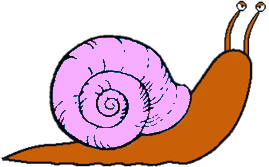
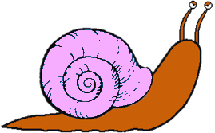
animations

diff --git a/core/src/com/missionbit/snailassalt/SnailAssalt.java b/core/src/com/missionbit/snailassalt/SnailAssalt.java
@@ -5,8 +5,10 @@ import com.badlogic.gdx.Gdx;
 import com.badlogic.gdx.graphics.GL20;
 import com.badlogic.gdx.graphics.OrthographicCamera;
 import com.badlogic.gdx.graphics.Texture;
+import com.badlogic.gdx.graphics.g2d.Animation;
 import com.badlogic.gdx.graphics.g2d.BitmapFont;
 import com.badlogic.gdx.graphics.g2d.SpriteBatch;
+import com.badlogic.gdx.graphics.g2d.TextureRegion;
 import com.badlogic.gdx.math.Vector3;
 
 public class SnailAssalt extends ApplicationAdapter {
@@ -27,19 +29,37 @@ public class SnailAssalt extends ApplicationAdapter {
     private Player jimmy;
     //enemies start
     private Enemy standardSnail;
+    private Texture frame1;
+    private Texture frame2;
+    private Animation snail;
+    float time = 0;
     private Enemy acidSnail;
+    private Texture frame3;
+    private Texture frame4;
+    private Animation acidsnail;
     private Enemy flyingSnail;
+    private Texture frame5;
+    private Texture frame6;
+    private Animation flyingsnail;
     private Enemy healerSnail;
+    private Texture frame7;
+    private Texture frame8;
+    private Animation healsnail;
     private Enemy motherSnail;
     private Enemy people;
     private Enemy boss;
     //enemies end
+    private Texture house;
+    private Texture houseBroken;
+    private Texture houseGameOver;
+    private int houseHp;
     // game states -- 1 int to hold current game state, 5 ints to hold MAIN game states
     private int gameState, stateMainMenu, stateInGame, stateGameOver, stateShop, stateLevelSelect;
     //levels -- 1 String to hold current level, [int] Strings to hold levels
     //private ArrayList<Levels> levels;
     private int currentLevel;
     //private String currentLevel, level1, level2;
+    private Texture balloon;
 	@Override
     public void render () {
         Gdx.gl.glClearColor(1, 1, 1, 1);
@@ -54,6 +74,7 @@ public class SnailAssalt extends ApplicationAdapter {
         camera = new OrthographicCamera(width, height);
         font = new BitmapFont(Gdx.files.internal("font.fnt"), Gdx.files.internal("font.png"), false);
         background = new Texture("sidewaysmenu.png");
+        balloon = new Texture("balloon icon.png");
         //game states start
         stateMainMenu = 0;
         stateInGame = 1;
@@ -78,7 +99,31 @@ public class SnailAssalt extends ApplicationAdapter {
         jimmy = new Player();
         //enemies start
         standardSnail = new Enemy();
-        //pull vivian's enemies later
+        frame1 = new Texture("snail.png");
+        frame2 = new Texture("standardsnail2.png");
+        snail = new Animation(0.7f, new TextureRegion(frame1), new TextureRegion(frame2));
+        snail.setPlayMode(Animation.PlayMode.LOOP);
+        acidSnail = new Enemy();
+        frame3= new Texture("acid snail.png");
+        frame4= new Texture("acid snail2.png");
+        acidsnail= new Animation(0.4f,new TextureRegion(frame3), new TextureRegion(frame4));
+        acidsnail.setPlayMode(Animation.PlayMode.LOOP);
+        flyingSnail = new Enemy();
+        frame5= new Texture("flying snail.png");
+        frame6= new Texture("flying snail2.png");
+        flyingsnail=new Animation(0.25f, new TextureRegion(frame5), new TextureRegion(frame6));
+        flyingsnail.setPlayMode(Animation.PlayMode.LOOP);
+        healerSnail = new Enemy();
+        frame7= new Texture("healsnail.png");
+        frame8=new Texture("healsnail2.png");
+        healsnail=new Animation(0.6f,new TextureRegion(frame7),new TextureRegion(frame8));
+        healsnail.setPlayMode(Animation.PlayMode.LOOP);
+        motherSnail = new Enemy();
+        people = new Enemy();
+        boss = new Enemy();
+        house = new Texture("house.png");
+        houseBroken=new Texture("housebroken.png");
+        houseGameOver=new Texture("housegameover.png");
         //enemies end
         resetGame();
     }
@@ -95,7 +140,29 @@ public class SnailAssalt extends ApplicationAdapter {
         loseButton.buttonPosition.set(loseButton.getXPos(), loseButton.getYPos());
         //buttons end
         //enemies start
-        //pull vivian's enemy stats later
+        standardSnail.standardSnailBound.x = 400;
+        standardSnail.standardSnailBound.y = 400;
+        standardSnail.hp = 10;
+        acidSnail.acidSnailBound.x = 600;
+        acidSnail.acidSnailBound.y = 600;
+        acidSnail.hp = 40;
+        flyingSnail.flyingSnailBound.x = 200;
+        flyingSnail.flyingSnailBound.y = 400;
+        flyingSnail.hp = 10;
+        healerSnail.healerSnailBound.x = 400;
+        healerSnail.healerSnailBound.y = 600;
+        healerSnail.hp = 20;
+        motherSnail.motherSnailBound.x = 0;
+        motherSnail.motherSnailBound.y = 0;
+        motherSnail.hp = 30;
+        people.peopleBound.x = 0;
+        people.peopleBound.y = 0;
+        people.hp = 40;
+        boss.bossBound.x = 0;
+        boss.bossBound.y = 0;
+        boss.hp = 100;
+        houseHp = 50;
+
         //enemies end
     }
     public Vector3 getTapPosition() {
@@ -103,6 +170,8 @@ public class SnailAssalt extends ApplicationAdapter {
         return camera.unproject(temp);
     }
     public void updateGame(){
+        float deltaTime = Gdx.graphics.getDeltaTime();
+        time += deltaTime;
         if (gameState == stateMainMenu) {
             if (Gdx.input.justTouched() && startButtonMenu.buttonBound.contains(getTapPosition().x, getTapPosition().y))
                 gameState = stateLevelSelect;
@@ -124,6 +193,9 @@ public class SnailAssalt extends ApplicationAdapter {
                 gameState = stateGameOver;
             if (standardSnail.standardSnailBound.contains(Gdx.input.getX(), Gdx.input.getY()))
                 standardSnail.standardSnailBound.x = 400;
+            if(houseHp==0){
+                gameState=stateGameOver;
+            }
             //some code here to determine loss condition
         }
         else if (gameState == stateGameOver) {
@@ -153,12 +225,33 @@ public class SnailAssalt extends ApplicationAdapter {
             font.draw(batch, "Current state: shop", 10, height - 50);
         }
         else if (gameState == stateInGame) {
+            batch.draw(balloon,width/2,height/2);
             batch.draw(loseButton.buttonImage, loseButton.buttonPosition.x, loseButton.buttonPosition.y);
             batch.draw(jimmy.jimmy, 0, 0);
-            batch.draw(standardSnail.standardSnail, standardSnail.standardSnailBound.x, standardSnail.standardSnailBound.y);
+            batch.draw(snail.getKeyFrame(time), standardSnail.standardSnailBound.x, standardSnail.standardSnailBound.y);
             if (standardSnail.standardSnailBound.contains(Gdx.input.getX(), Gdx.input.getY())) {
                 batch.draw(standardSnail.standardSnail, standardSnail.standardSnailBound.x, standardSnail.standardSnailBound.y);
             }
+            batch.draw(acidsnail.getKeyFrame(time),acidSnail.acidSnailBound.x,acidSnail.acidSnailBound.y);
+            if (acidSnail.acidSnailBound.contains(Gdx.input.getX(), Gdx.input.getY())){
+                batch.draw(acidSnail.acidSnail, acidSnail.acidSnailBound.x, acidSnail.acidSnailBound.y);
+            }
+            batch.draw(flyingsnail.getKeyFrame(time),flyingSnail.flyingSnailBound.x,flyingSnail.flyingSnailBound.y);
+            if(flyingSnail.flyingSnailBound.contains(Gdx.input.getX(),Gdx.input.getY())){
+               batch.draw(flyingSnail.flyingSnail, flyingSnail.flyingSnailBound.x,flyingSnail.flyingSnailBound.y);
+            }
+            batch.draw(healsnail.getKeyFrame(time),healerSnail.healerSnailBound.x,healerSnail.healerSnailBound.y);
+            if(standardSnail.standardSnailBound.contains(Gdx.input.getX(),Gdx.input.getY())){
+                batch.draw(healerSnail.healerSnail,healerSnail.healerSnailBound.x,healerSnail.healerSnailBound.y);
+            }
+            if(houseHp>35){
+                batch.draw(house,-300,0);
+            }else if(houseHp<35& houseHp>10){
+                batch.draw(houseBroken,-300,0);
+            }else if(houseHp<10){
+                batch.draw(houseGameOver,-300,0);
+            }
+
             font.draw(batch, "Current state: in-game", 10, height - 50);
         }
         else if (gameState == stateGameOver) {
